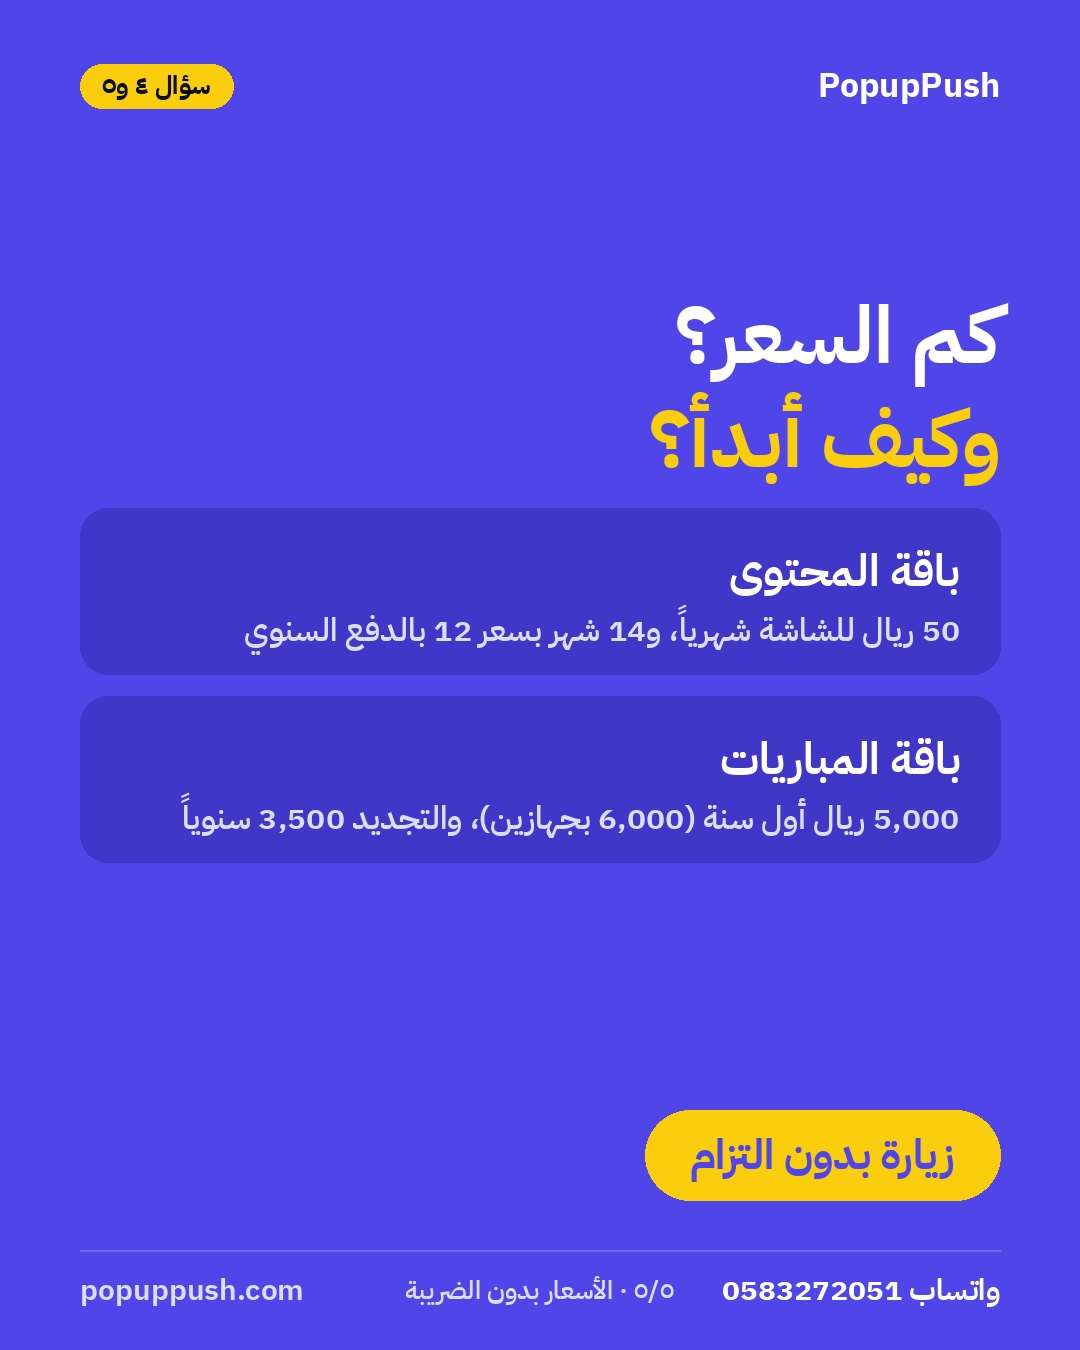
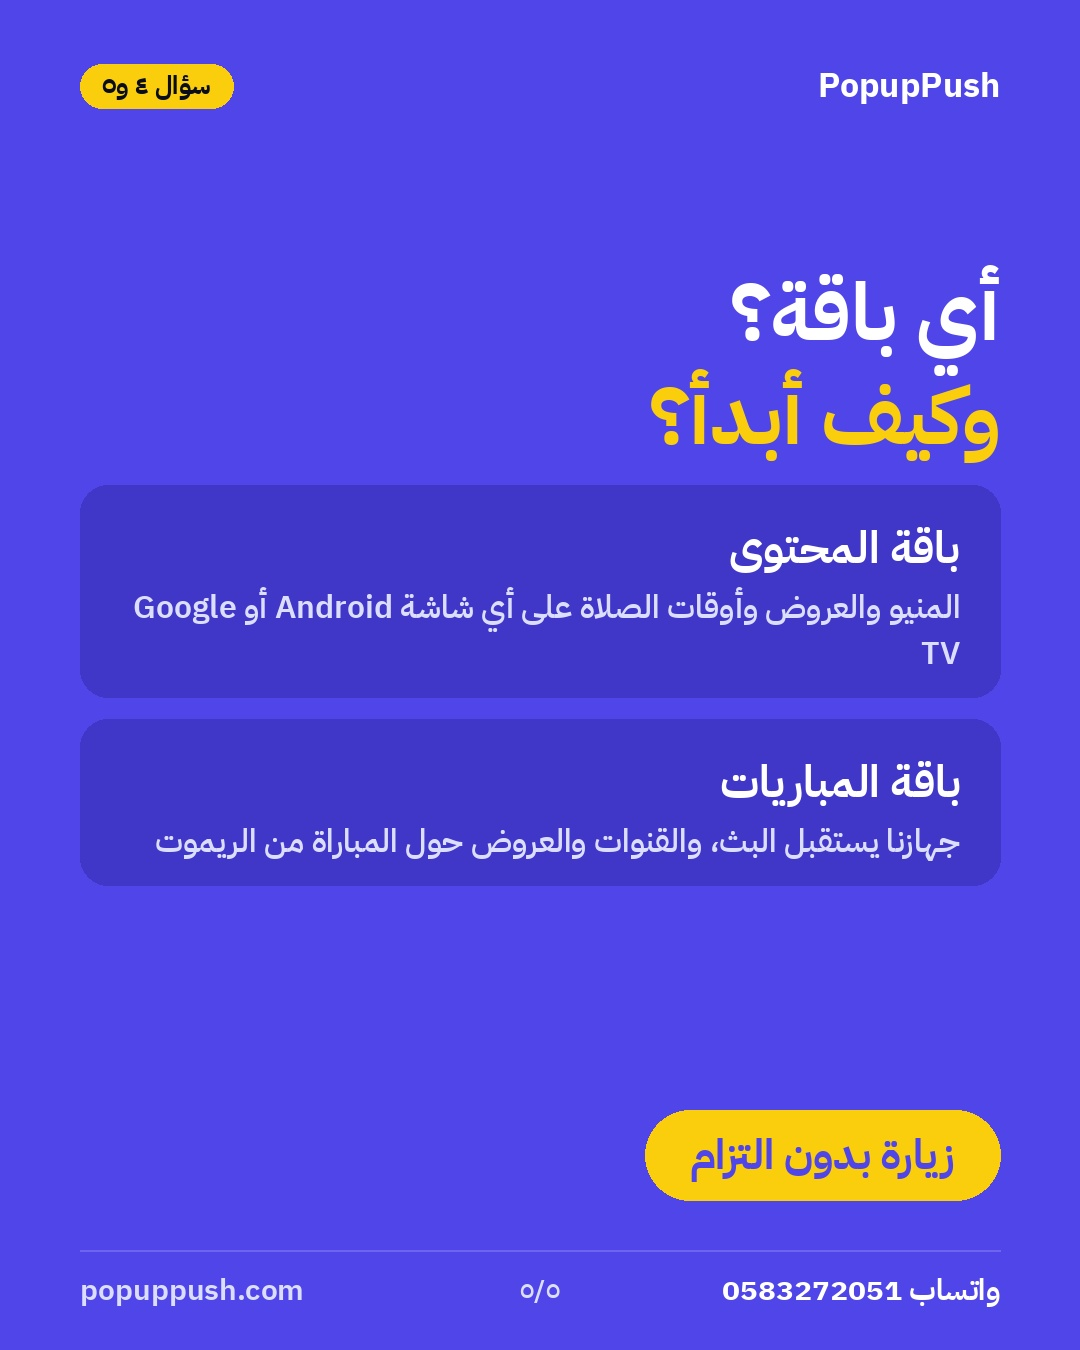
Remove prices from public post images; new 5 Nov (عروضي) and 12 Nov (birthday) posts
Claude-Session: https://claude.ai/code/session_01DbPcr1pniRYSfuF7xEpdE5

Changed region(s): [[0.0611, 0.1867, 0.9472, 0.6533], [0.3667, 0.9333, 0.6417, 0.9644]]

diff --git a/production/kafu-diaries/statics_fix.py b/production/kafu-diaries/statics_fix.py
@@ -25,4 +25,19 @@ slide("nov4_3.jpg", "indigo", "الفروع", ["مطمّن عليها:"], accent
              ("وقت الصلاة", "العرض يوقف لحاله ويرجع بعدها")], page="٣/٤")
 slide("nov4_4.jpg", "green", "الفروع", ["عندكم شاشات", "بأكثر من فرع؟"], accent=[1],
       body=["خلّنا نوريك النظام على شاشاتكم."], kafu="center", cta="زيارة بدون التزام", page="٤/٤")
+
+# 5 Nov — «عروضي»: design an offer in a minute (replaces the 14-for-12 price post)
+slide("nov5_1.jpg", "dark", "عروضي", ["عرضك…", "جاهز بدقيقة."], accent=[1],
+      body=["بدون مصمم ولا طباعة.", "اسحب ←"], kafu="phone", page="١/٣")
+slide("nov5_2.jpg", "light", "عروضي", ["كيف؟"], accent=[0],
+      items=[("اختار ثيم", "١٢ ثيم جاهز، أو ارفع تصميمك"),
+             ("حط السعر والشعار", "برمز الريال الرسمي وشعار مكانك"),
+             ("أضف QR", "لإنستغرام أو تقييم جوجل، والمنصة تعدّ المسحات")], page="٢/٣")
+slide("nov5_3.jpg", "indigo", "عروضي", ["شوفه…", "واعرضه الآن."], accent=[1],
+      body=["معاينة حية قبل ما ينزل، وتختار وقته: الصبح، الظهر، المسا، أو طول اليوم."], cta="زيارة بدون التزام", page="٣/٣")
+
+# 12 Nov — birthday on every screen (replaces the daily-price math post)
+slide("nov12_bday.jpg", "indigo", "عيد ميلاد", ["اسم الضيف…", "على كل الشاشات."], accent=[1],
+      body=["احتفال باسم الضيف بفيديو وموسيقى، والطاولة كلها تصوّر. لحظة يتذكرها، ويرجع لك."],
+      kafu="center", cta="زيارة بدون التزام")
 print("ok")

diff --git a/production/kafu-diaries/statics_dec.py b/production/kafu-diaries/statics_dec.py
@@ -119,7 +119,7 @@ slide("s_1.jpg", "green", "كفو", ["كأس آسيا عندنا…", "وكفو 
       body=["مباراتين بنفس الوقت؟ كل شاشة لها مباراة، والعرض ينزل بين الشوطين."], kafu="center")
 # T — Asian Cup countdown (29 Dec)
 slide("t_1.jpg", "indigo", "كأس آسيا 2027", ["٩ أيام", "على كأس آسيا."], accent=[0],
-      items=[("باقة المباريات", "5,000 ريال أول سنة (6,000 بجهازين)"),
+      items=[("باقة المباريات", "جهازنا يستقبل البث، جهاز لكل مصدر"),
              ("من جوالك", "المباريات والقنوات وعروض حول المباراة")],
-      cta="احجز زيارتك", page="الأسعار بدون الضريبة")
+      cta="احجز زيارتك")
 print("ok")
